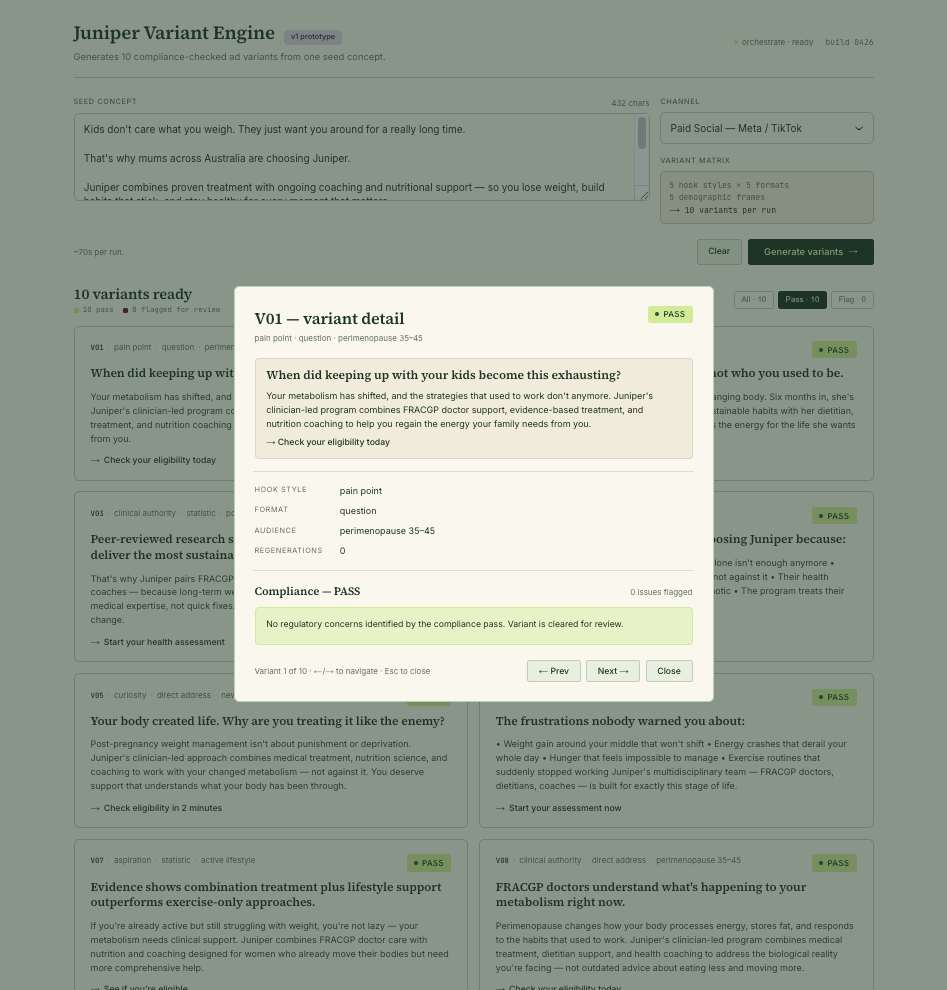
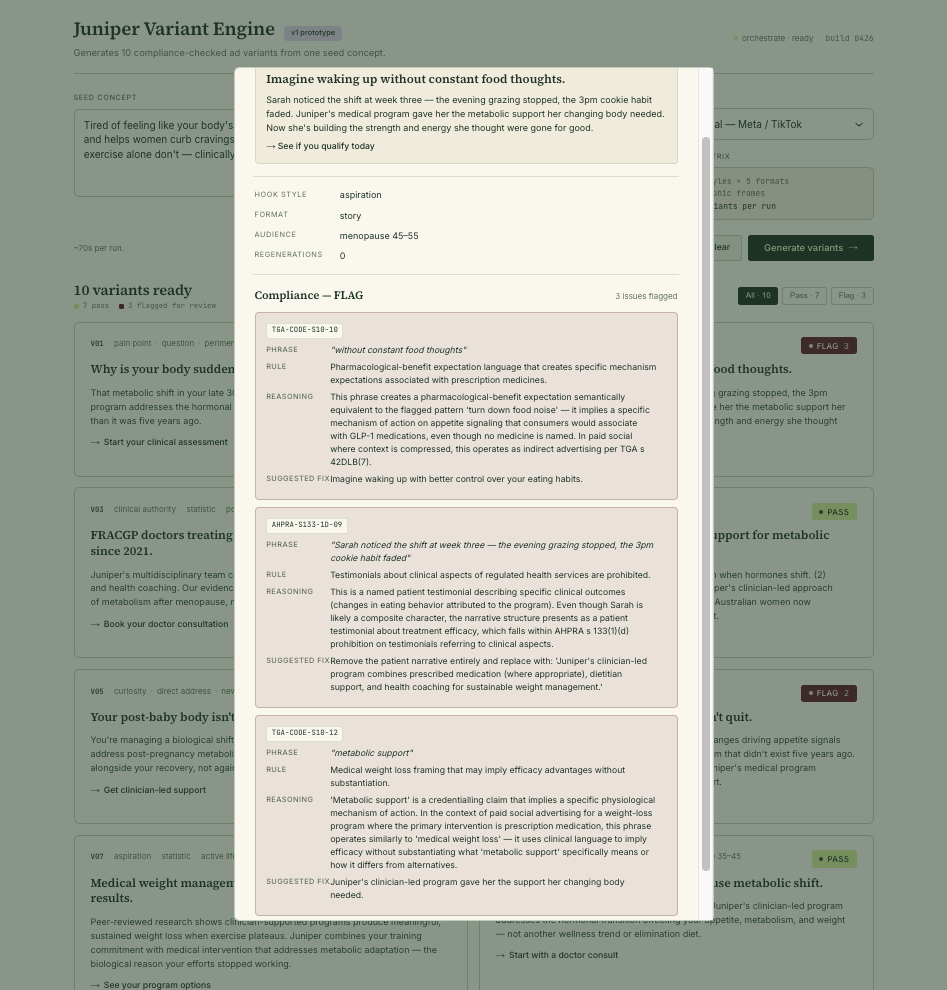
MCP Proposal & Screenshots

diff --git a/docs/eucalyptus_mcp_proposal.md b/docs/eucalyptus_mcp_proposal.md
@@ -1,0 +1,86 @@
+# A Eucalyptus-wide MCP server: proposal
+
+*Written as a companion to the Juniper Variant Engine — extending the v1 artefact's architectural argument from a single tool into a composable capability layer for the wider growth function.*
+
+---
+
+## The case
+
+Eucalyptus runs a vertically-integrated growth function across five brands and four operating jurisdictions. Each market and brand has its own rule packs, its own brand voice, its own performance baselines, its own clinical claims. Today, that context lives in Notion docs, internal Slack threads, clinical style guides, the data warehouse, and individual marketers' heads. Every growth tool — including the variant engine in this repo — has to either replicate that context or work without it.
+
+The Model Context Protocol, released by Anthropic in late 2024, is the standard that makes this composable. An MCP server exposes capabilities — tools and resources — to any AI assistant in a way that's discoverable, callable, and reusable across workflows. Build one MCP server per coherent domain of capability, and any AI assistant on the team can compose them into workflows the original tools weren't explicitly designed for.
+
+Eucalyptus is well-positioned for this for three specific reasons. The growth function already runs an "AI and Automation Engineer" hiring template that names Cursor, Zapier, n8n, and OpenAI/Claude API as core tooling — the team is already AI-fluent. The brand-pod model with parallel Heads of Growth Marketing and Product Growth per brand is exactly the org structure that benefits from composable capabilities (each pod uses what it needs without negotiating shared tools). And the Hims & Hers acquisition makes "scales across markets without multiplying maintenance burden" a first-order architectural concern, not a future one.
+
+## What v1 already proves
+
+The Juniper Variant Engine in this repo is the smallest viable proof that the architecture works. It demonstrates two of the four resource families and two of the core tools — generation and compliance checking, against a Juniper-AU rule pack — running in production. Wrapping it as an MCP server is a 4-6 hour task that exposes the existing logic to Claude Desktop, agentic workflows, and any future AI assistant on the team. The v1 logic doesn't change; only the interface.
+
+## Architecture
+
+The proposal is one MCP server per *vertical domain*, plus a separate horizontal connector for shared infrastructure. Vertical means deep in one brand-jurisdiction: Juniper-AU, Pilot-AU, Juniper-UK, etc. Horizontal means broad across domains: warehouse access, clinical-claims library, channel guidelines.
+
+**Resource families** — authored truths, addressable as URIs, read by Claude when reasoning:
+
+- `rule-pack://{jurisdiction}/{brand}/{product}` — the regulatory rule set per market per brand per product. Already exists for Juniper AU as the 18-rule TGA + AHPRA set.
+- `brand-context://{brand}/{jurisdiction}` — voice, approved claims, ICP segments, banned phrases, channel-specific tone notes. Authored content that doesn't live cleanly in a SQL warehouse.
+- `clinical-claims://{product}` — ARTG-registered indications, peer-reviewed substantiation, jurisdiction-agnostic where possible.
+- `channel-guidelines://{channel}/{jurisdiction}` — platform-specific restrictions (Meta's restricted health categories in EU; PMDA advertising rules; ASA precedent).
+
+The hierarchy mirrors *cardinality of change*. Crossing a jurisdiction boundary changes the rule pack entirely; crossing a brand boundary inside a jurisdiction changes the voice but mostly preserves the rules. The URI shape reflects this — jurisdiction at the top of rule-pack URIs, brand at the top of brand-context URIs.
+
+**Tools** — active interfaces, called by Claude to execute operations:
+
+- `generate_variants(seed, brand, jurisdiction, product, channel)` — the variant engine, parameterised. Already built for Juniper AU.
+- `check_compliance(copy, brand, jurisdiction, product, channel)` — the rule-set compliance checker. Already built.
+- `query_winners(brand, jurisdiction, window, limit)` — wraps a curated SQL query against the existing data warehouse, returning top-performing variants by cost-per-quiz-start over a window.
+- `query_patterns(brand, jurisdiction, window)` — pattern aggregation across hook style × format × demographic frame.
+- `generate_with_pattern_bias(...)` — composition tool. Pulls winning patterns from `query_patterns`, biases the generation matrix toward proven combinations, returns variants. This is where the architecture earns its keep — the composition is more valuable than either tool alone.
+
+## The team builds on top of it
+
+The strongest version of this isn't an architecture the growth team *uses*. It's an architecture the growth team *extends*. Once the connector pattern exists and the first vertical domain is shipped, anyone with reasonable technical fluency — performance marketers, lifecycle leads, the AI and Automation Engineer, even non-engineers using Cursor or Lovable — can author new tools and new resources against the same standard.
+
+A lifecycle marketer notices that the same churn-message variants get reused across cohorts; she adds a `generate_lifecycle_variant` tool to the Juniper-AU connector that pulls cohort context from the warehouse and runs the variant matrix with retention-specific hook styles. A clinical operations lead realises Claude could be useful for triaging consultation transcripts; he stands up a clinical-ops connector with three tools and a resource exposing the FRACGP scope-of-practice rules. A creative strategist running Pilot wants brand-voice tonality guidance for TikTok specifically; she contributes a `tiktok-tone-guide` resource to the Pilot-AU connector that any team member's Claude instance can read.
+
+None of these require central permission, central engineering capacity, or coordination across teams. Each contributor extends the system in the domain they own, and every other contributor benefits because every new tool and every new resource becomes available to compose with everything that already exists.
+
+This is the difference between *building a tool* and *building infrastructure*. A tool serves the user flows its author designed. Infrastructure serves whatever flows people compose on top of it. Six months in, the most useful tools on the system probably won't be the ones built by the original engineering team — they'll be the ones built by the marketers, operators, and clinical staff closest to specific problems, using the connector pattern as a template.
+
+## What this is not
+
+The MCP server is a *query interface*, not a parallel datastore. Performance data lives in Eucalyptus's existing warehouse (Tableau and Metabase per public job descriptions imply BigQuery or Snowflake underneath); the MCP layer wraps curated read queries owned and approved by data engineering. Adding a new performance tool is a DE conversation, not a tool change.
+
+Brand context, clinical claims, and channel guidelines are similarly pulled from existing sources — Notion pages, internal style guides, the clinical team's claim register. The MCP layer is an *integration* over things that already exist, not a rebuild of them. The only resource where the MCP server owns the source is the rule pack, because that's the work the variant engine literally produced from scratch.
+
+Access control inherits the warehouse layer. The MCP server is not an authentication or data-governance escape hatch.
+
+## Connector roadmap
+
+The realistic build sequence — assuming this gets picked up inside Eucalyptus rather than as a personal project:
+
+1. **Juniper-AU connector v1**: wrap the existing variant engine as MCP. Two tools (generate, check), two resources (rule pack, brand context). 4-6 hours.
+2. **Warehouse query tools**: partner with data engineering to expose three or four curated performance queries — winners, patterns, variant history. Owned by DE, called via MCP. 1-2 weeks of DE conversations + tooling.
+3. **Composition tools**: `generate_with_pattern_bias` and `suggest_seed_from_winners`. These are the tools that prove the composability claim. ~1 week once the warehouse query tools exist.
+4. **Documentation and templates for team contribution**: a short guide and a connector starter template that any team member can fork. This is what flips the system from *engineering-built* to *team-extensible*. ~1 week.
+5. **Juniper-UK connector**: rule pack for MHRA + ASA, brand context translation for the UK market. The second-jurisdiction proof — demonstrates the pattern scales without architectural changes. ~1-2 weeks of regulatory research, similar engineering effort to v1.
+6. **Pilot-AU connector**: same pattern, different brand. Reuses warehouse query tools and channel-guidelines resources. ~1 week.
+7. **Brand spine consolidation**: once 3-4 connectors exist, extract shared infrastructure (auth, warehouse access, channel guidelines) into a horizontal connector to reduce per-connector maintenance.
+
+The compounding effect: each new connector makes the existing connectors more valuable, because Claude can compose tools across them (e.g. *"compare winning hook styles between Juniper UK and Juniper AU last quarter"*). And once team members start contributing their own tools, the compounding accelerates — the growth team's collective capacity becomes the rate limit, not engineering.
+
+## What this enables, concretely
+
+Six months in, a Juniper performance creative strategist working in Claude Desktop can ask: *"Pull the brief from Notion, find the approved seed concept, generate 10 variants biased toward the hook styles that won last quarter, run them through compliance, and post the cleared ones to Slack for clinical review."*
+
+That single prompt orchestrates four MCP servers (Juniper-AU, Notion, Slack, the warehouse query layer) without the strategist visiting any of the underlying tools. The variant engine becomes a *capability* called from inside her existing workflow, not a destination she has to remember to visit.
+
+Multiplied across the team, across markets, across brands, *and across whatever new tools team members have contributed* — that's the productivity claim. Not faster generation. Faster *composition* of capabilities the team has accumulated together.
+
+## Why I'd build this here
+
+Eucalyptus is one of a small number of companies where the architecture is demonstrably the right answer rather than over-engineered: multi-brand, multi-jurisdiction, regulated, AI-forward, and recently capitalised at a scale that justifies infrastructure investment. The variant engine in this repo is the existence proof. The proposal is the path from one tool to a connector layer the whole growth function — and adjacent functions like clinical operations, lifecycle, and brand — can build on top of.
+
+---
+
+*This document is a working artefact for an application to the Eucalyptus Growth Intern role. The architectural claims are mine; the data infrastructure references are extrapolated from public job descriptions and growth-team materials.*

diff --git a/README.md b/README.md
@@ -2,8 +2,8 @@
 
 *An AI creative iteration tool with TGA/AHPRA compliance guardrails for Australian telehealth weight-loss marketing. Built in four days as a portfolio piece for an application to Eucalyptus.*
 
-**Live demo:** [your-deployment-url-here]
-**60-second walkthrough:** *(coming Saturday)*
+**Live demo:[URL]**
+**60-second walkthrough:** *(coming Tuesday)*
 
 ---
 
